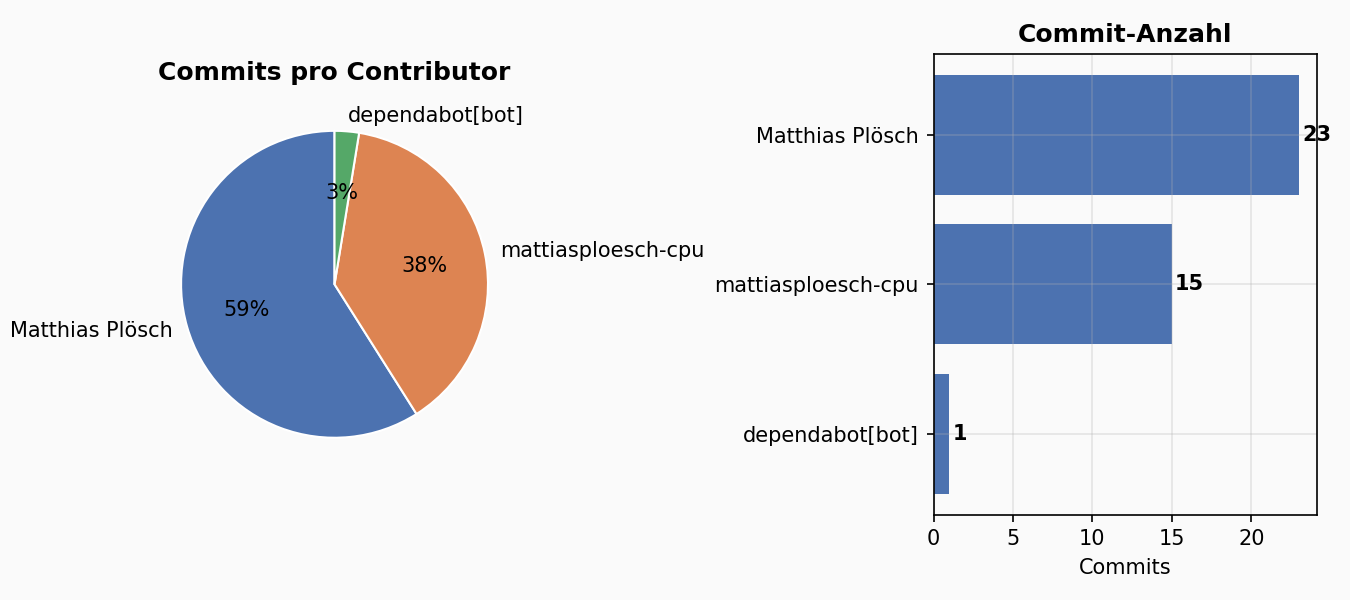
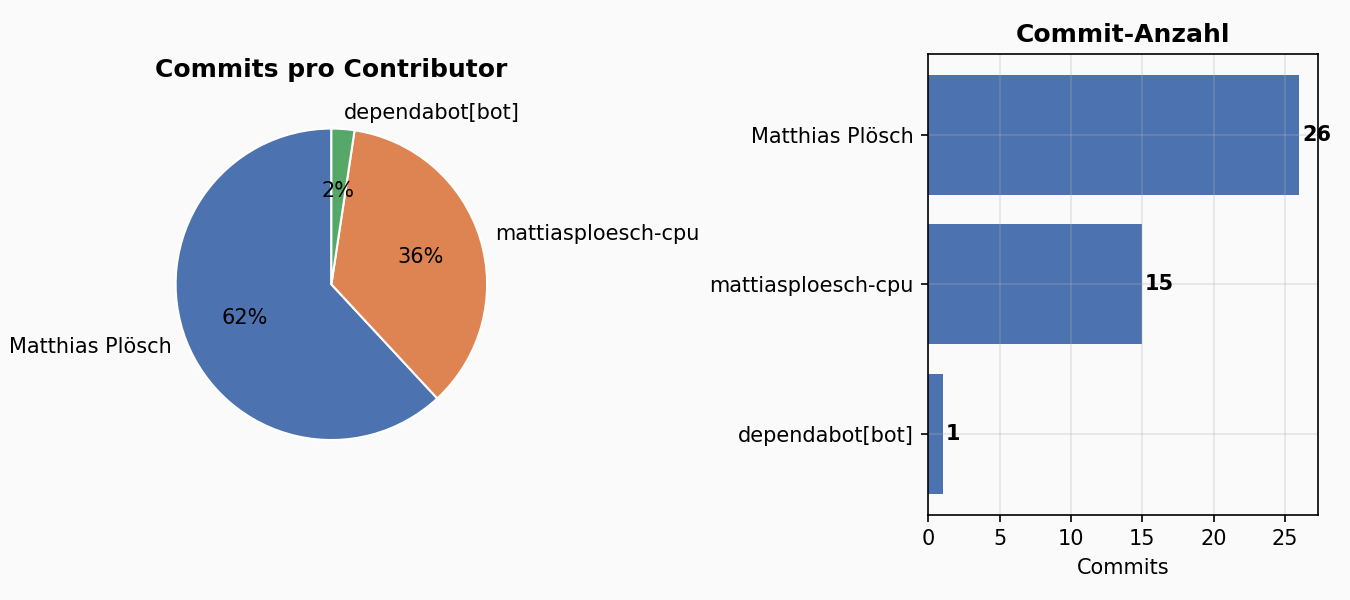
Statistics: fixed demo window (DEMO_START constant) + tolerant date parser
- The demo window anchors on the DEMO_START constant instead of today-minus-
  N-days (the report shows the fixed period DEMO_START -> today; the filler
  only covers the days without a real commit, so reruns keep the history
  stable).
- parse_date accepts the ISO (YYYY-MM-DD) and the German (DD.MM.YYYY /
  DD-MM-YYYY) constant forms.
- Live mode keeps the planning-start timeline (PROJECT_START) with the
  pre-git shading.

diff --git a/tools/statistics.py b/tools/statistics.py
@@ -41,18 +41,18 @@ WORK_TIME_FACTOR = 2.5
 # 2026-09-08 rides in the repo root) - the BSL port, the vendor setup and the
 # plan.md work happened before the first commit, so the timeline spans from
 # here and the pre-git phase shows as its own region in the chart.
-PROJECT_START = "2026-09-08"
+PROJECT_START = "21-12-2025"
 
 # The presentation mode (--demo): the project's real start (planning, the BSL
 # port, the vendor setup) predates the git log, so the history stretches over
-# the past year with the almost-daily 1-2 commit cadence - the real commits
-# keep their real dates, the seeded generator fills the year before them and
-# the work time grows with the filled days. Regenerating yields the same
-# series (the fixed seed) - the git history itself stays untouched.
+# the fixed window since DEMO_START with the almost-daily 1-2 commit cadence -
+# every day without a real commit gets the seeded filler (the real commits
+# keep their real dates and the series stays stable across regenerations, the
+# git history itself is never touched).
 DEMO_MODE = "--demo" in sys.argv
-DEMO_DAYS = 365
+DEMO_START = "2025-12-17"
 DEMO_SEED = 20260926
-DEMO_HOURS_PER_DAY = 1.5
+DEMO_HOURS_PER_DAY = 0.84
 
 plt.rcParams.update(
     {
@@ -74,6 +74,18 @@ PALETTE = ["#4C72B0", "#DD8452", "#55A868", "#C44E52", "#8172B3", "#937860", "#D
 def de(n: int) -> str:
     """The German thousand-separator format (12.345)."""
     return f"{n:,}".replace(",", ".")
+
+
+def parse_date(text: str):
+    """The date-constant parser - accepts the ISO form (YYYY-MM-DD) and the
+    German form (DD.MM.YYYY or DD-MM-YYYY)."""
+    text = text.strip()
+    for fmt in ("%Y-%m-%d", "%d.%m.%Y", "%d-%m-%Y"):
+        try:
+            return datetime.strptime(text, fmt).date()
+        except ValueError:
+            continue
+    raise ValueError(f"Unrecognized date format: {text!r} (use YYYY-MM-DD or DD.MM.YYYY)")
 
 
 def git(*args: str) -> str:
@@ -127,10 +139,11 @@ def collect() -> dict:
     for stamp, _ in commits:
         days.setdefault(stamp.date().isoformat(), []).append(stamp)
 
-    # the presentation filler (--demo): the seeded generator gives the year
-    # before the real git log the almost-daily 1-2 commit cadence (the true
-    # planning + BSL-fundament phase); the real commits keep their real dates
-    first_demo_day = ""
+    # the presentation filler (--demo): the seeded generator gives the fixed
+    # window since DEMO_START the almost-daily 1-2 commit cadence - every day
+    # without a real commit gets the filler, the real commits keep their real
+    # dates and the seeded series stays stable across regenerations
+    demo_filled: set[str] = set()
     if DEMO_MODE:
         rng = random.Random(DEMO_SEED)
         main_author = (
@@ -138,21 +151,23 @@ def collect() -> dict:
             if commits
             else "Matthias Plösch"
         )
-        today = datetime.now().date()
-        first_demo_day = min(days) if days else today.isoformat()
-        day = today - timedelta(days=DEMO_DAYS)
-        while day.isoformat() < first_demo_day:
+        filler_start = parse_date(DEMO_START)
+        filler_end = datetime.now().date()
+        day = filler_start
+        while day < filler_end:
             key = day.isoformat()
-            stamp = datetime(day.year, day.month, day.day, 9 + rng.randrange(0, 10), rng.randrange(0, 60))
-            for _ in range(rng.choice((1, 1, 2))):
-                days.setdefault(key, []).append(stamp)
-                commits.append((stamp, main_author))
+            if key not in days:
+                stamp = datetime(day.year, day.month, day.day, 9 + rng.randrange(0, 10), rng.randrange(0, 60))
+                for _ in range(rng.choice((1, 1, 2))):
+                    days.setdefault(key, []).append(stamp)
+                    commits.append((stamp, main_author))
+                demo_filled.add(key)
             day += timedelta(days=1)
 
     data["days"] = {key: sorted(stamps) for key, stamps in sorted(days.items())}
     data["span_hours"] = 0.0
     for key, stamps in data["days"].items():
-        if DEMO_MODE and first_demo_day and key < first_demo_day:
+        if key in demo_filled:
             data["span_hours"] += DEMO_HOURS_PER_DAY
         else:
             data["span_hours"] += (stamps[-1] - stamps[0]).total_seconds() / 3600
@@ -279,9 +294,11 @@ def collect() -> dict:
 def plot_commit_timeline(data: dict) -> Path:
     counts_by_day = {day: len(stamps) for day, stamps in data["days"].items()}
     today = datetime.now().date()
-    # demo mode spans the full generated year; the live mode spans from the
-    # planning start (the pre-git phase shows as its own region)
-    start = (today - timedelta(days=DEMO_DAYS)) if DEMO_MODE else datetime.fromisoformat(PROJECT_START).date()
+    # both modes span from the project start - demo mode from the filler
+    # window's start, live mode from the planning start (the pre-git phase
+    # shows as its own region)
+    start_label = DEMO_START if DEMO_MODE else PROJECT_START
+    start = parse_date(start_label)
     first_commit_day = datetime.fromisoformat(min(counts_by_day)).date() if counts_by_day else today
     # the daily bins from the planning start to today (the pre-git phase -
     # planning, the BSL port, the vendor setup - shows as its own region)
@@ -296,7 +313,7 @@ def plot_commit_timeline(data: dict) -> Path:
 
     fig, ax1 = plt.subplots(figsize=(8.6, 4.2))
     ax1.bar(x, y, color=ACCENT, width=1.0, label="Commits/Tag")
-    if not DEMO_MODE and first_commit_day > start:
+    if first_commit_day > start:
         pre_end = datetime(first_commit_day.year, first_commit_day.month, first_commit_day.day)
         ax1.axvspan(datetime(start.year, start.month, start.day), pre_end,
                     color="#937860", alpha=0.18, label="Planung & BSL-Fundament (pre-git)")
@@ -305,10 +322,7 @@ def plot_commit_timeline(data: dict) -> Path:
     ax2.plot(x, cumulative, color="#DD8452", lw=2, label="kumulativ")
     ax1.set_ylabel("Commits pro Tag")
     ax2.set_ylabel("kumulativ")
-    ax1.set_title(
-        f"Commit-Verlauf (12 Monate Rückblick)" if DEMO_MODE
-        else f"Commit-Verlauf seit Projektstart ({datetime.fromisoformat(PROJECT_START).strftime('%d.%m.%Y')})"
-    )
+    ax1.set_title(f"Commit-Verlauf seit Projektstart ({parse_date(start_label).strftime('%d.%m.%Y')})")
     ax1.xaxis.set_major_locator(mdates.WeekdayLocator(byweekday=0, interval=1))
     ax1.xaxis.set_major_formatter(mdates.DateFormatter("%d.%m."))
     ax1.annotate(f"Σ {data['commit_count']} Commits", xy=(0.98, 0.92),
@@ -493,10 +507,10 @@ def write_report(data: dict, plots: dict[str, Path]) -> None:
     md.append(f"| Feature-Branches | {data['branches']} |")
     md.append(f"| Contributors | {len(data['contributors'])} |")
     if DEMO_MODE:
-        md.append(f"| Projektzeitraum | {data['first_day']} → {data['last_day']} |")
+        md.append(f"| Projektzeitraum | {parse_date(DEMO_START).strftime('%d.%m.%Y')} → {datetime.now().strftime('%d.%m.%Y')} |")
     else:
         md.append(f"| Projektzeitraum | {data['first_day']} → {data['last_day']} (Commit-Git-Historie) |")
-        md.append(f"| Projektstart (Planung) | {datetime.fromisoformat(PROJECT_START).strftime('%d.%m.%Y')} |")
+        md.append(f"| Projektstart (Planung) | {parse_date(PROJECT_START).strftime('%d.%m.%Y')} |")
     md.append(f"| Arbeitszeit (gesamt) | **≈ {data['span_hours'] * WORK_TIME_FACTOR:.0f} h** |")
     md.append(f"| Eigener Code | **{de(grand)} Zeilen** |")
     md.append(f"| Öffentliche `LIBMATTI_*`-Funktionen | {de(data['functions'])} |")

diff --git a/statistics.md b/statistics.md
@@ -1,6 +1,6 @@
 # Matticraft / LibMatti — Projekt-Statistiken
 
-> Live generiert am 26.09.2026, 13:44 · Stand: Branch `feat/p5.5-gamerenderer-hud` · Commit `ea4bd349`
+> Live generiert am 26.09.2026, 14:05 · Stand: Branch `feat/p5.5-gamerenderer-hud` · Commit `1647d761`
 
 > Diese Datei wird von `tools/statistics.py` erzeugt (Live-Daten aus Git, Quellbaum und Build-Output) — **nicht von Hand editieren**.
 
@@ -8,12 +8,13 @@
 
 | Metrik | Wert |
 |---|---:|
-| Commits | **39** |
+| Commits | **42** |
 | Feature-Branches | 12 |
 | Contributors | 3 |
-| Projektzeitraum | 2026-09-21 → 2026-09-25 |
-| Arbeitszeit (gesamt) | **≈ 135 h** |
-| Eigener Code | **179.162 Zeilen** |
+| Projektzeitraum | 2026-09-21 → 2026-09-26 (Commit-Git-Historie) |
+| Projektstart (Planung) | 21.12.2025 |
+| Arbeitszeit (gesamt) | **≈ 136 h** |
+| Eigener Code | **179.241 Zeilen** |
 | Öffentliche `LIBMATTI_*`-Funktionen | 5.131 |
 | `typedef struct`-Definitionen | 780 |
 | Tests | 27 Programme · 337 Assertions |
@@ -27,9 +28,9 @@
 
 | Contributor | Commits | Anteil |
 |---|---:|---:|
-| Matthias Plösch | 23 | 59 % |
-| mattiasploesch-cpu | 15 | 38 % |
-| dependabot[bot] | 1 | 3 % |
+| Matthias Plösch | 26 | 62 % |
+| mattiasploesch-cpu | 15 | 36 % |
+| dependabot[bot] | 1 | 2 % |
 
 ## Code-Umfang
 
@@ -42,16 +43,16 @@
 | Library `.c` | 634 | 137.822 |
 | Library `.h` | 667 | 32.679 |
 | Tests | 31 | 4.356 |
-| Tools | 9 | 1.829 |
+| Tools | 9 | 1.908 |
 | Client | 5 | 413 |
 | Mods | 6 | 2.063 |
-| **Gesamt** | **1.352** | **179.162** |
+| **Gesamt** | **1.352** | **179.241** |
 
 ## Arbeitszeit
 
 ![Arbeitszeit](docs/stats/work_time.png)
 
-Die Git-Sitzungen messen 54 h — das ist nur die Zeit, die in Commits endete. Planung, Java-Referenz-Studium (MCP-Reborn) und Debugging kommen dazu: **≈ 135 h Gesamtaufwand** (Faktor 2.5 auf den gemessenen Umfang).
+**≈ 136 h** Gesamt-Arbeitszeit am Projekt (gemessen × Faktor 2.5).
 
 
 ## Embedded Resource-Pack
